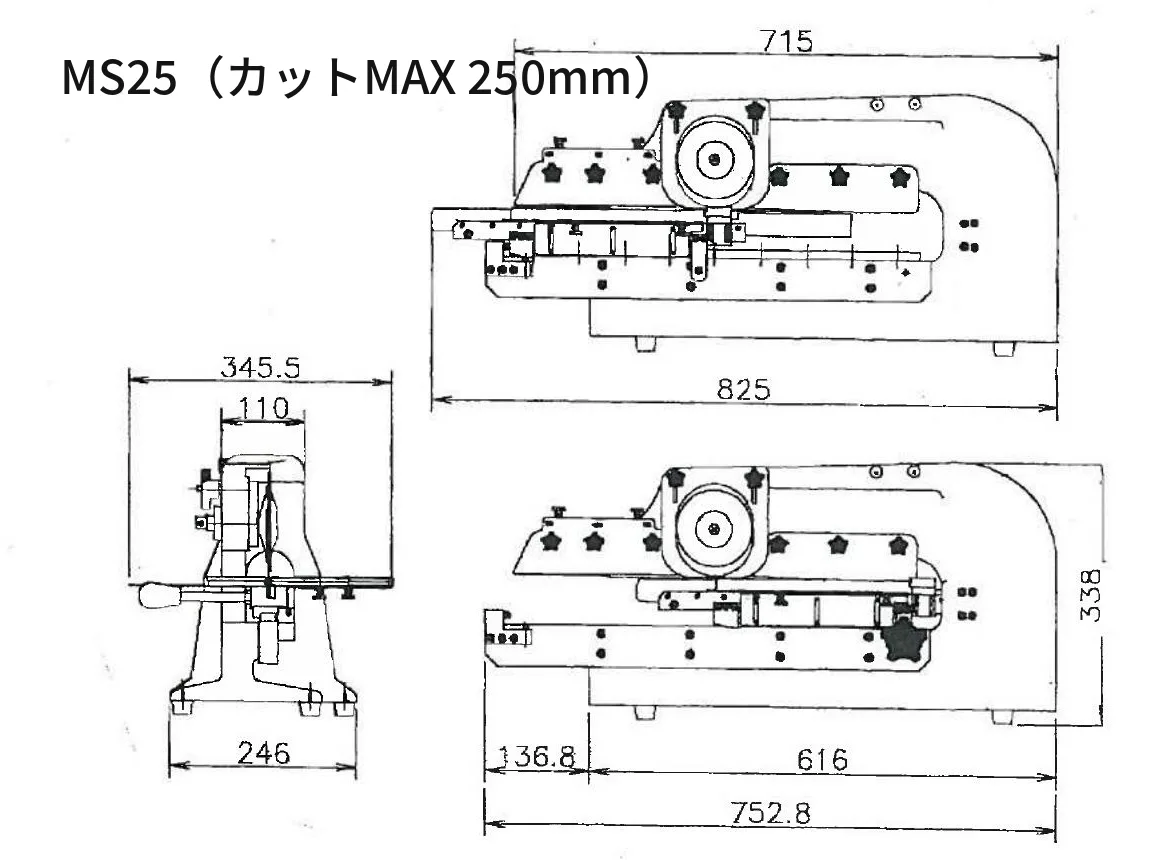
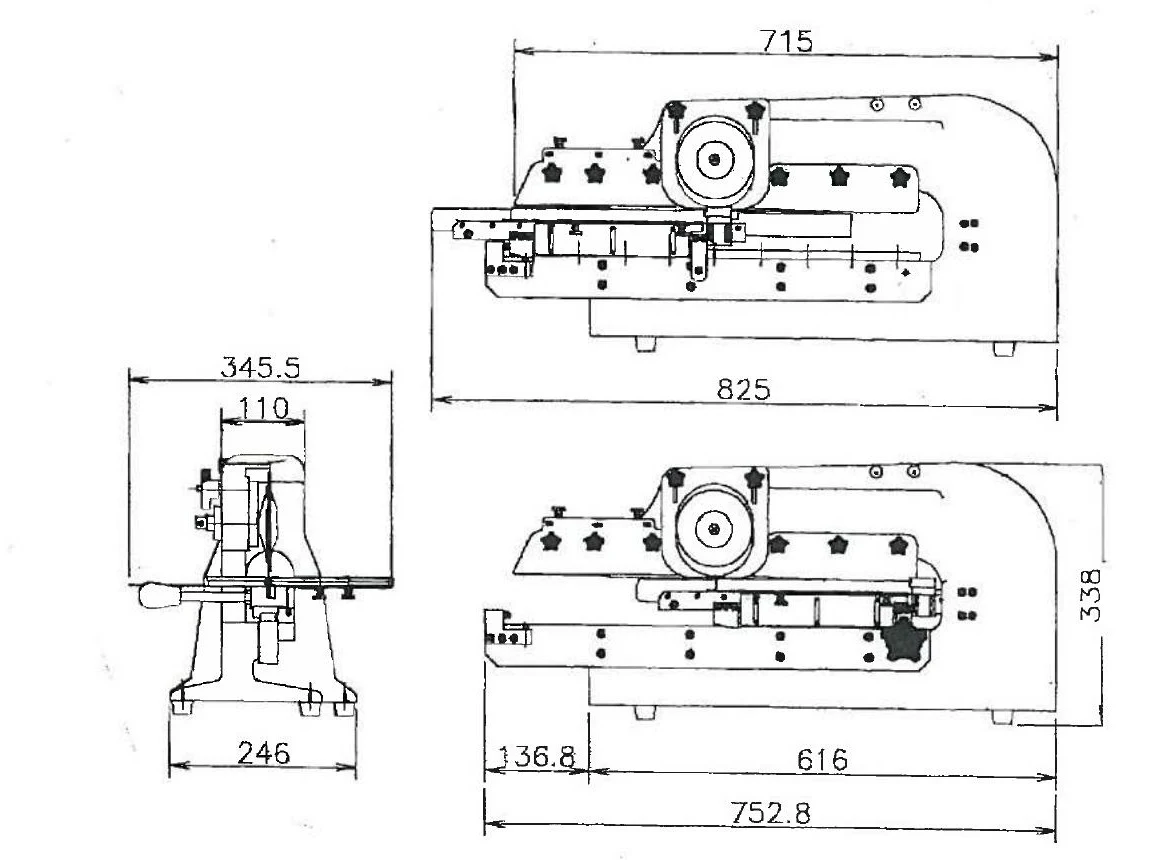
外形図の文字被りを解消（図面から文字を除去し見出しバー化）、機種名・仕様表など全体の文字を拡大して読みやすく

Changed region(s): [[0.1862, 0.0605, 0.5586, 0.1209], [0.031, 0.0605, 0.1552, 0.1209]]

diff --git a/assets/site.css b/assets/site.css
@@ -106,8 +106,8 @@ body {
 }
 .nav-links a {
   font-family: 'Josefin Sans', sans-serif;
-  font-size: 0.78rem; font-weight: 600;
-  letter-spacing: 0.12em; text-transform: uppercase;
+  font-size: 0.85rem; font-weight: 600;
+  letter-spacing: 0.1em; text-transform: uppercase;
   color: var(--dark-gray); text-decoration: none;
   transition: color 0.2s;
   position: relative;
@@ -361,7 +361,7 @@ section { padding: 96px 80px; }
   margin-bottom: 12px;
 }
 .feat-body {
-  font-size: 0.85rem; line-height: 1.8; color: var(--dark-gray);
+  font-size: 0.93rem; line-height: 1.85; color: var(--dark-gray);
 }
 
 /* ─── PRINCIPLE ─── */
@@ -398,12 +398,12 @@ section { padding: 96px 80px; }
 }
 .p-text-head {
   font-family: 'Josefin Sans', sans-serif;
-  font-size: 0.88rem; font-weight: 600;
+  font-size: 0.98rem; font-weight: 600;
   letter-spacing: 0.06em; color: var(--white);
   margin-bottom: 4px;
 }
 .p-text-body {
-  font-size: 0.82rem; line-height: 1.75;
+  font-size: 0.92rem; line-height: 1.8;
   color: rgba(255,255,255,0.55);
 }
 
@@ -437,7 +437,7 @@ section { padding: 96px 80px; }
   letter-spacing: 0.1em; color: var(--black);
 }
 .series-desc {
-  font-size: 0.82rem; color: var(--mid-gray);
+  font-size: 0.9rem; color: var(--mid-gray);
   margin-top: 2px;
 }
 
@@ -465,27 +465,27 @@ section { padding: 96px 80px; }
 }
 .model-info { padding: 16px; }
 .model-name {
-  font-family: 'Space Mono', monospace;
-  font-size: 0.78rem; font-weight: 700;
+  font-family: 'Noto Sans JP', sans-serif;
+  font-size: 1.3rem; font-weight: 700; letter-spacing: 0.02em;
   color: var(--black); margin-bottom: 6px;
 }
 .model-tag {
   display: inline-block;
   background: var(--teal-light); color: var(--teal-dark);
-  font-size: 0.68rem; padding: 2px 8px;
+  font-size: 0.78rem; padding: 2px 8px;
   border-radius: 1px; letter-spacing: 0.05em;
   margin-bottom: 8px;
 }
 .model-specs { list-style: none; }
 .model-specs li {
   display: flex; justify-content: space-between;
-  font-size: 0.75rem; color: var(--dark-gray);
-  padding: 4px 0; border-bottom: 1px solid var(--silver);
+  font-size: 0.95rem; color: var(--dark-gray);
+  padding: 6px 0; border-bottom: 1px solid var(--silver);
 }
 .model-specs li:last-child { border-bottom: none; }
 .model-specs .spec-val {
-  font-family: 'Space Mono', monospace;
-  font-size: 0.72rem; color: var(--black);
+  font-family: 'Noto Sans JP', sans-serif;
+  font-size: 0.88rem; font-weight: 500; color: var(--black);
 }
 
 /* ─── INSPECTION ─── */
@@ -520,7 +520,7 @@ section { padding: 96px 80px; }
   margin-bottom: 6px;
 }
 .insp-step-body {
-  font-size: 0.83rem; line-height: 1.75; color: var(--dark-gray);
+  font-size: 0.92rem; line-height: 1.8; color: var(--dark-gray);
 }
 
 .insp-visual {
@@ -538,7 +538,7 @@ section { padding: 96px 80px; }
 }
 .crack-table td {
   padding: 12px 14px;
-  font-size: 0.82rem; color: var(--dark-gray);
+  font-size: 0.9rem; color: var(--dark-gray);
   border-bottom: 1px solid var(--silver);
   vertical-align: top;
 }
@@ -578,12 +578,12 @@ section { padding: 96px 80px; }
 }
 .sel-step-title {
   font-family: 'Josefin Sans', sans-serif;
-  font-size: 0.88rem; font-weight: 700;
+  font-size: 0.98rem; font-weight: 700;
   color: var(--black); letter-spacing: 0.04em;
   margin-bottom: 8px;
 }
 .sel-step-body {
-  font-size: 0.78rem; line-height: 1.7; color: var(--dark-gray);
+  font-size: 0.88rem; line-height: 1.75; color: var(--dark-gray);
 }
 
 .selection-note {
@@ -623,7 +623,7 @@ section { padding: 96px 80px; }
   width: 38%; vertical-align: top;
 }
 .company-table td {
-  font-size: 0.88rem; color: var(--dark-gray);
+  font-size: 0.95rem; color: var(--dark-gray);
   padding: 14px 0; line-height: 1.7;
 }
 
@@ -822,40 +822,44 @@ footer {
 }
 
 /* ===== multi-page additions ===== */
+:root { --silver-light: #ECECEC; --silver-dark: #767676; }
 .nav-links li.dd { position: relative; }
 .nav-links li.dd > a::after { content: " ▾"; font-size: 0.7em; }
 .dd-menu { position: absolute; top: 100%; left: -8px; background: rgba(17,17,17,0.97); backdrop-filter: blur(8px); min-width: 240px; display: none; flex-direction: column; padding: 8px 0; border: 1px solid rgba(255,255,255,0.08); }
 .nav-links li.dd:hover .dd-menu { display: flex; }
-.dd-menu a { display: block; padding: 10px 18px; font-size: 12.5px; color: #E8E8E8; }
+.dd-menu a { display: block; padding: 11px 18px; font-size: 14px; color: #E8E8E8; }
 .dd-menu a:hover { color: var(--teal); background: rgba(255,255,255,0.06); }
 .page-pad { padding-top: 92px; }
 .dwg-grid { display: grid; grid-template-columns: 1fr; gap: 28px; margin-top: 28px; }
 .dwg-card { background: #fff; border: 1px solid var(--silver-light); padding: 18px; }
 .dwg-card img { width: 100%; height: auto; display: block; }
-.imgcap { font-size: 0.8rem; color: var(--dark-gray); text-align: center; margin-top: 10px; }
-.subh { font-family: 'Josefin Sans', sans-serif; font-size: 1.05rem; font-weight: 700; letter-spacing: 0.06em; color: var(--black); margin: 48px 0 16px; padding-left: 12px; border-left: 3px solid var(--teal); }
-table.stbl { border-collapse: collapse; width: 100%; font-size: 0.85rem; background: #fff; }
+.dwg-head { display: flex; align-items: baseline; gap: 14px; flex-wrap: wrap; margin: -18px -18px 16px; padding: 12px 18px; background: var(--off-white); border-bottom: 1px solid var(--silver-light); }
+.dwg-model { font-family: 'Noto Sans JP', sans-serif; font-size: 1.25rem; font-weight: 700; color: var(--black); letter-spacing: 0.02em; }
+.dwg-note { font-size: 0.85rem; color: var(--mid-gray); }
+.imgcap { font-size: 0.88rem; color: var(--dark-gray); text-align: center; margin-top: 10px; }
+.subh { font-family: 'Noto Sans JP', sans-serif; font-size: 1.2rem; font-weight: 700; letter-spacing: 0.06em; color: var(--black); margin: 48px 0 16px; padding-left: 12px; border-left: 3px solid var(--teal); }
+table.stbl { border-collapse: collapse; width: 100%; font-size: 0.95rem; background: #fff; }
 table.stbl th, table.stbl td { border: 1px solid var(--silver-light); padding: 9px 12px; text-align: left; line-height: 1.6; }
 table.stbl th { background: var(--silver-light); font-weight: 500; white-space: nowrap; }
-.note-box { margin-top: 20px; padding: 16px 20px; background: var(--teal-light); border-left: 2px solid var(--teal); font-size: 0.83rem; color: var(--dark-gray); line-height: 1.8; }
-.warn-box { margin-top: 20px; padding: 16px 20px; background: rgba(255,160,0,0.08); border-left: 2px solid #c0a000; font-size: 0.83rem; color: var(--dark-gray); line-height: 1.8; }
+.note-box { margin-top: 20px; padding: 16px 20px; background: var(--teal-light); border-left: 2px solid var(--teal); font-size: 0.9rem; color: var(--dark-gray); line-height: 1.8; }
+.warn-box { margin-top: 20px; padding: 16px 20px; background: rgba(255,160,0,0.08); border-left: 2px solid #c0a000; font-size: 0.9rem; color: var(--dark-gray); line-height: 1.8; }
 .cat-grid { display: grid; grid-template-columns: repeat(auto-fit, minmax(280px, 1fr)); gap: 24px; margin-top: 36px; }
 .cat-card { background: #fff; border: 1px solid var(--silver-light); text-decoration: none; color: inherit; display: flex; flex-direction: column; transition: box-shadow 0.25s, transform 0.25s; }
 .cat-card:hover { box-shadow: 0 10px 30px rgba(0,0,0,0.09); transform: translateY(-3px); }
 .cat-card img { width: 100%; aspect-ratio: 4/3; object-fit: contain; background: var(--off-white); padding: 14px; box-sizing: border-box; }
 .cat-body { padding: 18px 20px 22px; }
-.cat-name { font-weight: 700; font-size: 1rem; color: var(--black); margin-bottom: 6px; }
-.cat-desc { font-size: 0.82rem; color: var(--dark-gray); line-height: 1.7; }
-.cat-more { margin-top: 10px; font-size: 0.8rem; color: var(--teal); font-weight: 500; }
+.cat-name { font-weight: 700; font-size: 1.15rem; color: var(--black); margin-bottom: 6px; }
+.cat-desc { font-size: 0.9rem; color: var(--dark-gray); line-height: 1.75; }
+.cat-more { margin-top: 10px; font-size: 0.86rem; color: var(--teal); font-weight: 500; }
 .link-row { display: grid; grid-template-columns: repeat(auto-fit, minmax(240px, 1fr)); gap: 20px; margin-top: 32px; }
 .link-tile { background: var(--black); color: #f0f0f0; padding: 26px 26px; text-decoration: none; transition: background 0.25s; }
 .link-tile:hover { background: #262626; }
 .link-tile .lt-en { font-family: 'Josefin Sans', sans-serif; font-size: 0.7rem; letter-spacing: 0.18em; color: var(--teal); }
 .link-tile .lt-ja { font-size: 1.02rem; font-weight: 700; margin-top: 6px; }
-.link-tile .lt-desc { font-size: 0.78rem; color: rgba(255,255,255,0.55); margin-top: 8px; line-height: 1.7; }
+.link-tile .lt-desc { font-size: 0.85rem; color: rgba(255,255,255,0.55); margin-top: 8px; line-height: 1.7; }
 .img-limit { display: block; margin: 0 auto; height: auto; }
 .two-col { display: grid; grid-template-columns: 1fr 1fr; gap: 28px; align-items: start; }
 @media (max-width: 820px) { .two-col { grid-template-columns: 1fr; } }
-.crumbs { font-size: 0.75rem; color: var(--silver-dark); margin-bottom: 26px; }
+.crumbs { font-size: 0.82rem; color: var(--silver-dark); margin-bottom: 26px; }
 .crumbs a { color: var(--silver-dark); text-decoration: none; }
 .crumbs a:hover { color: var(--teal); }

diff --git a/products-splitter.html b/products-splitter.html
@@ -158,10 +158,10 @@
   <div class="note-box">1次側と2次側の両方に隙間調整機構を搭載。高密度実装基板や難しいV溝仕様の基板のひずみをさらに低減します。分割対応基板：FR4・CEM3・紙フェノール・アルミ・銅基板（V溝加工済みのもの）。</div>
   <div class="subh">外形図</div>
   <div class="dwg-grid">
-    <div class="dwg-card reveal"><img src="images/dwg-ms20.webp" alt="MS20 外形図（単位：mm）" style="max-width:820px;margin:0 auto;"><div class="imgcap">MS20 外形図（単位：mm）</div></div>
-    <div class="dwg-card reveal"><img src="images/dwg-ms25.webp" alt="MS25 外形図（単位：mm）" style="max-width:760px;margin:0 auto;"><div class="imgcap">MS25 外形図（単位：mm）</div></div>
-    <div class="dwg-card reveal"><img src="images/dwg-mw21.webp" alt="MW21 外形図（単位：mm）" style="max-width:800px;margin:0 auto;"><div class="imgcap">MW21 外形図（単位：mm）</div></div>
-    <div class="dwg-card reveal"><img src="images/dwg-mw25.webp" alt="MW25 外形図（単位：mm）" style="max-width:760px;margin:0 auto;"><div class="imgcap">MW25 外形図（単位：mm）</div></div>
+    <div class="dwg-card reveal"><div class="dwg-head"><span class="dwg-model">MS20</span><span class="dwg-note">外形図（単位：mm）</span></div><img src="images/dwg-ms20.webp" alt="MS20 外形図（単位：mm）" style="max-width:820px;margin:0 auto;"></div>
+    <div class="dwg-card reveal"><div class="dwg-head"><span class="dwg-model">MS25</span><span class="dwg-note">外形図（単位：mm）</span></div><img src="images/dwg-ms25.webp" alt="MS25 外形図（単位：mm）" style="max-width:760px;margin:0 auto;"></div>
+    <div class="dwg-card reveal"><div class="dwg-head"><span class="dwg-model">MW21</span><span class="dwg-note">外形図（単位：mm）</span></div><img src="images/dwg-mw21.webp" alt="MW21 外形図（単位：mm）" style="max-width:800px;margin:0 auto;"></div>
+    <div class="dwg-card reveal"><div class="dwg-head"><span class="dwg-model">MW25</span><span class="dwg-note">外形図（単位：mm）</span></div><img src="images/dwg-mw25.webp" alt="MW25 外形図（単位：mm）" style="max-width:760px;margin:0 auto;"></div>
   </div>
   <div class="subh">交換刃</div>
   <table class="stbl">

diff --git a/products-motor.html b/products-motor.html
@@ -100,9 +100,9 @@
   </div>
   <div class="subh">外形図</div>
   <div class="dwg-grid">
-    <div class="dwg-card reveal"><img src="images/dwg-em260m.webp" alt="EM260M 外形図（単位：mm）" style="max-width:880px;margin:0 auto;"><div class="imgcap">EM260M 外形図（単位：mm）</div></div>
-    <div class="dwg-card reveal"><img src="images/dwg-em360m.webp" alt="EM360M 外形図（単位：mm）" style="max-width:880px;margin:0 auto;"><div class="imgcap">EM360M 外形図（単位：mm）</div></div>
-    <div class="dwg-card reveal"><img src="images/dwg-em460m.webp" alt="EM460M 外形図（単位：mm）" style="max-width:880px;margin:0 auto;"><div class="imgcap">EM460M 外形図（単位：mm）</div></div>
+    <div class="dwg-card reveal"><div class="dwg-head"><span class="dwg-model">EM260M</span><span class="dwg-note">外形図（単位：mm）</span></div><img src="images/dwg-em260m.webp" alt="EM260M 外形図（単位：mm）" style="max-width:880px;margin:0 auto;"></div>
+    <div class="dwg-card reveal"><div class="dwg-head"><span class="dwg-model">EM360M</span><span class="dwg-note">外形図（単位：mm）</span></div><img src="images/dwg-em360m.webp" alt="EM360M 外形図（単位：mm）" style="max-width:880px;margin:0 auto;"></div>
+    <div class="dwg-card reveal"><div class="dwg-head"><span class="dwg-model">EM460M</span><span class="dwg-note">外形図（単位：mm）</span></div><img src="images/dwg-em460m.webp" alt="EM460M 外形図（単位：mm）" style="max-width:880px;margin:0 auto;"></div>
   </div>
   <div class="note-box reveal">交換刃はシングル機種（手動）と共通です（上刃 EMD系／下刃 EML系）。</div>
 </section>

diff --git a/products-single.html b/products-single.html
@@ -130,9 +130,9 @@
   </div>
   <div class="subh">外形図</div>
   <div class="dwg-grid">
-    <div class="dwg-card reveal"><img src="images/dwg-em260.webp" alt="EM260 外形図（単位：mm）" style="max-width:880px;margin:0 auto;"><div class="imgcap">EM260 外形図（単位：mm）</div></div>
-    <div class="dwg-card reveal"><img src="images/dwg-em360.webp" alt="EM360 外形図（単位：mm）" style="max-width:880px;margin:0 auto;"><div class="imgcap">EM360 外形図（単位：mm）</div></div>
-    <div class="dwg-card reveal"><img src="images/dwg-em460.webp" alt="EM460 外形図（単位：mm）" style="max-width:880px;margin:0 auto;"><div class="imgcap">EM460 外形図（単位：mm）</div></div>
+    <div class="dwg-card reveal"><div class="dwg-head"><span class="dwg-model">EM260</span><span class="dwg-note">外形図（単位：mm）</span></div><img src="images/dwg-em260.webp" alt="EM260 外形図（単位：mm）" style="max-width:880px;margin:0 auto;"></div>
+    <div class="dwg-card reveal"><div class="dwg-head"><span class="dwg-model">EM360</span><span class="dwg-note">外形図（単位：mm）</span></div><img src="images/dwg-em360.webp" alt="EM360 外形図（単位：mm）" style="max-width:880px;margin:0 auto;"></div>
+    <div class="dwg-card reveal"><div class="dwg-head"><span class="dwg-model">EM460</span><span class="dwg-note">外形図（単位：mm）</span></div><img src="images/dwg-em460.webp" alt="EM460 外形図（単位：mm）" style="max-width:880px;margin:0 auto;"></div>
   </div>
   <div class="subh">交換刃</div>
   <div class="two-col">

diff --git a/products-double.html b/products-double.html
@@ -114,8 +114,8 @@
   </div>
   <div class="subh">外形図</div>
   <div class="dwg-grid">
-    <div class="dwg-card reveal"><img src="images/dwg-emw360.webp" alt="EMW360 外形図（単位：mm）" style="max-width:880px;margin:0 auto;"><div class="imgcap">EMW360 外形図（単位：mm）</div></div>
-    <div class="dwg-card reveal"><img src="images/dwg-emw460.webp" alt="EMW460 外形図（単位：mm）" style="max-width:880px;margin:0 auto;"><div class="imgcap">EMW460 外形図（単位：mm）</div></div>
+    <div class="dwg-card reveal"><div class="dwg-head"><span class="dwg-model">EMW360</span><span class="dwg-note">外形図（単位：mm）</span></div><img src="images/dwg-emw360.webp" alt="EMW360 外形図（単位：mm）" style="max-width:880px;margin:0 auto;"></div>
+    <div class="dwg-card reveal"><div class="dwg-head"><span class="dwg-model">EMW460</span><span class="dwg-note">外形図（単位：mm）</span></div><img src="images/dwg-emw460.webp" alt="EMW460 外形図（単位：mm）" style="max-width:880px;margin:0 auto;"></div>
   </div>
   <div class="subh">交換刃</div>
   <table class="stbl">

diff --git a/products-disc.html b/products-disc.html
@@ -102,7 +102,7 @@
   </div>
   <div class="subh">外形図</div>
   <div class="dwg-grid">
-    <div class="dwg-card reveal"><img src="images/dwg-em2df.webp" alt="EM-2DF 外形図（単位：mm）" style="max-width:880px;margin:0 auto;"><div class="imgcap">EM-2DF 外形図（単位：mm）</div></div>
+    <div class="dwg-card reveal"><div class="dwg-head"><span class="dwg-model">EM-2DF</span><span class="dwg-note">外形図（単位：mm）</span></div><img src="images/dwg-em2df.webp" alt="EM-2DF 外形図（単位：mm）" style="max-width:880px;margin:0 auto;"></div>
   </div>
   <div class="warn-box reveal">⚠ 上下丸刃タイプは点接触のため、V溝際に衝撃に弱い部品が実装されている場合は基板仕様の確認が必要です。中抜き基板・部品がV溝際にある場合はシングル／ダブル機種をご検討ください。</div>
 </section>
